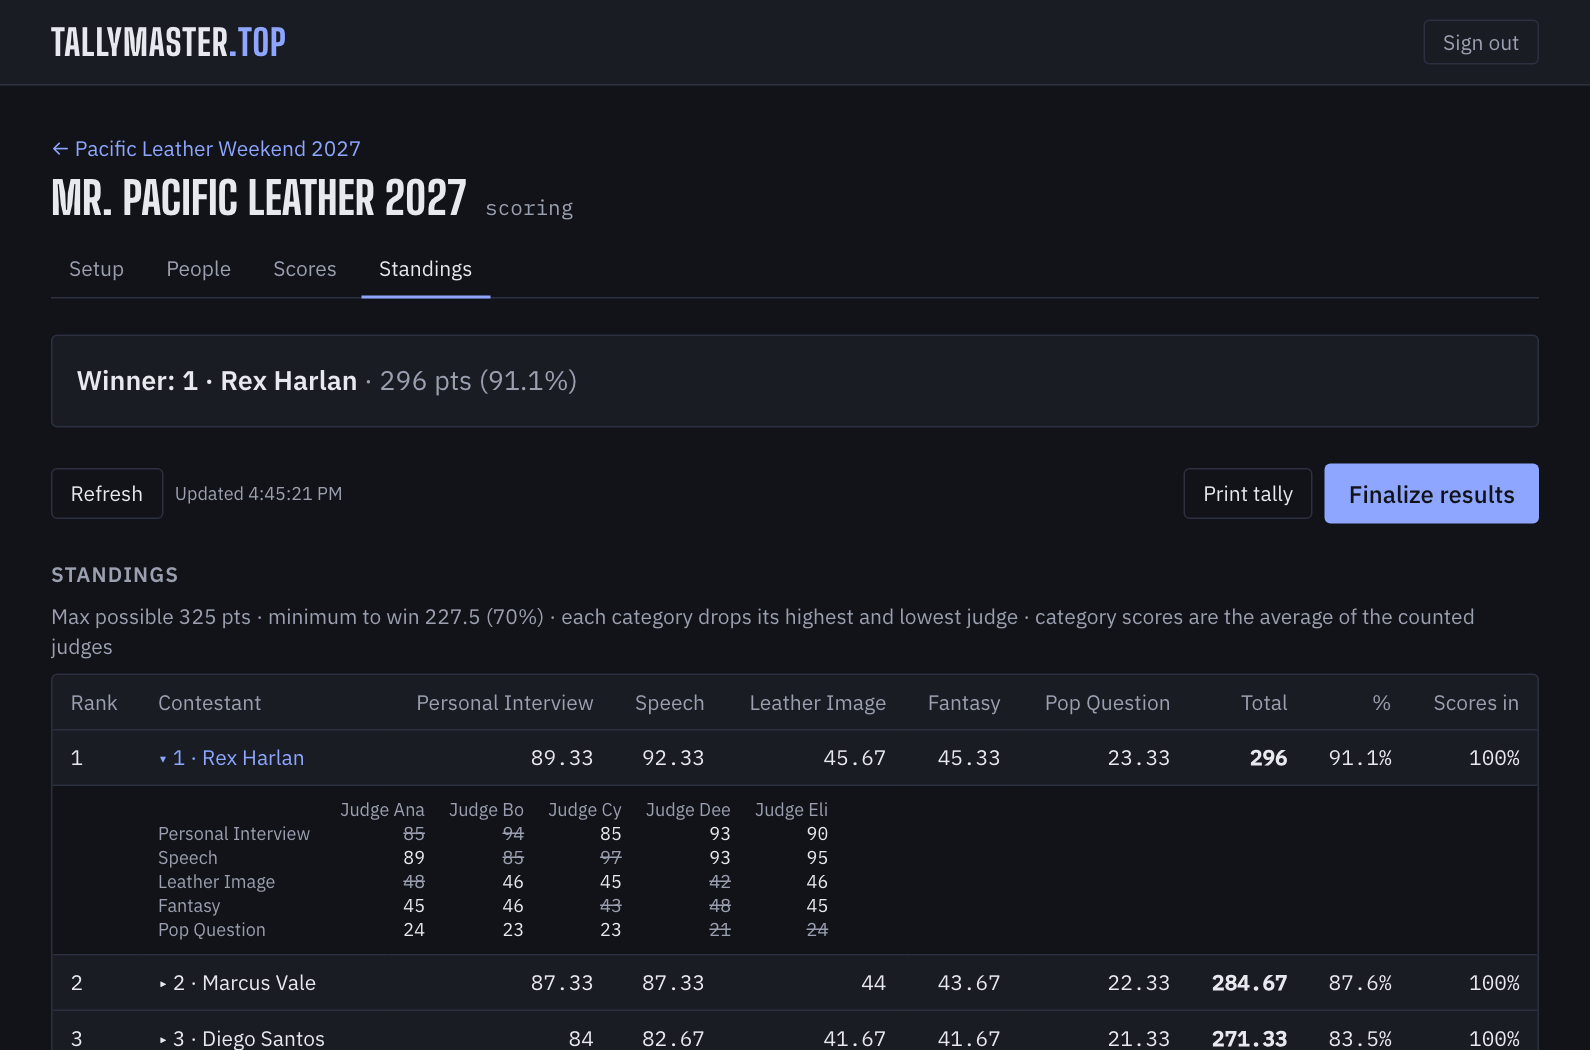
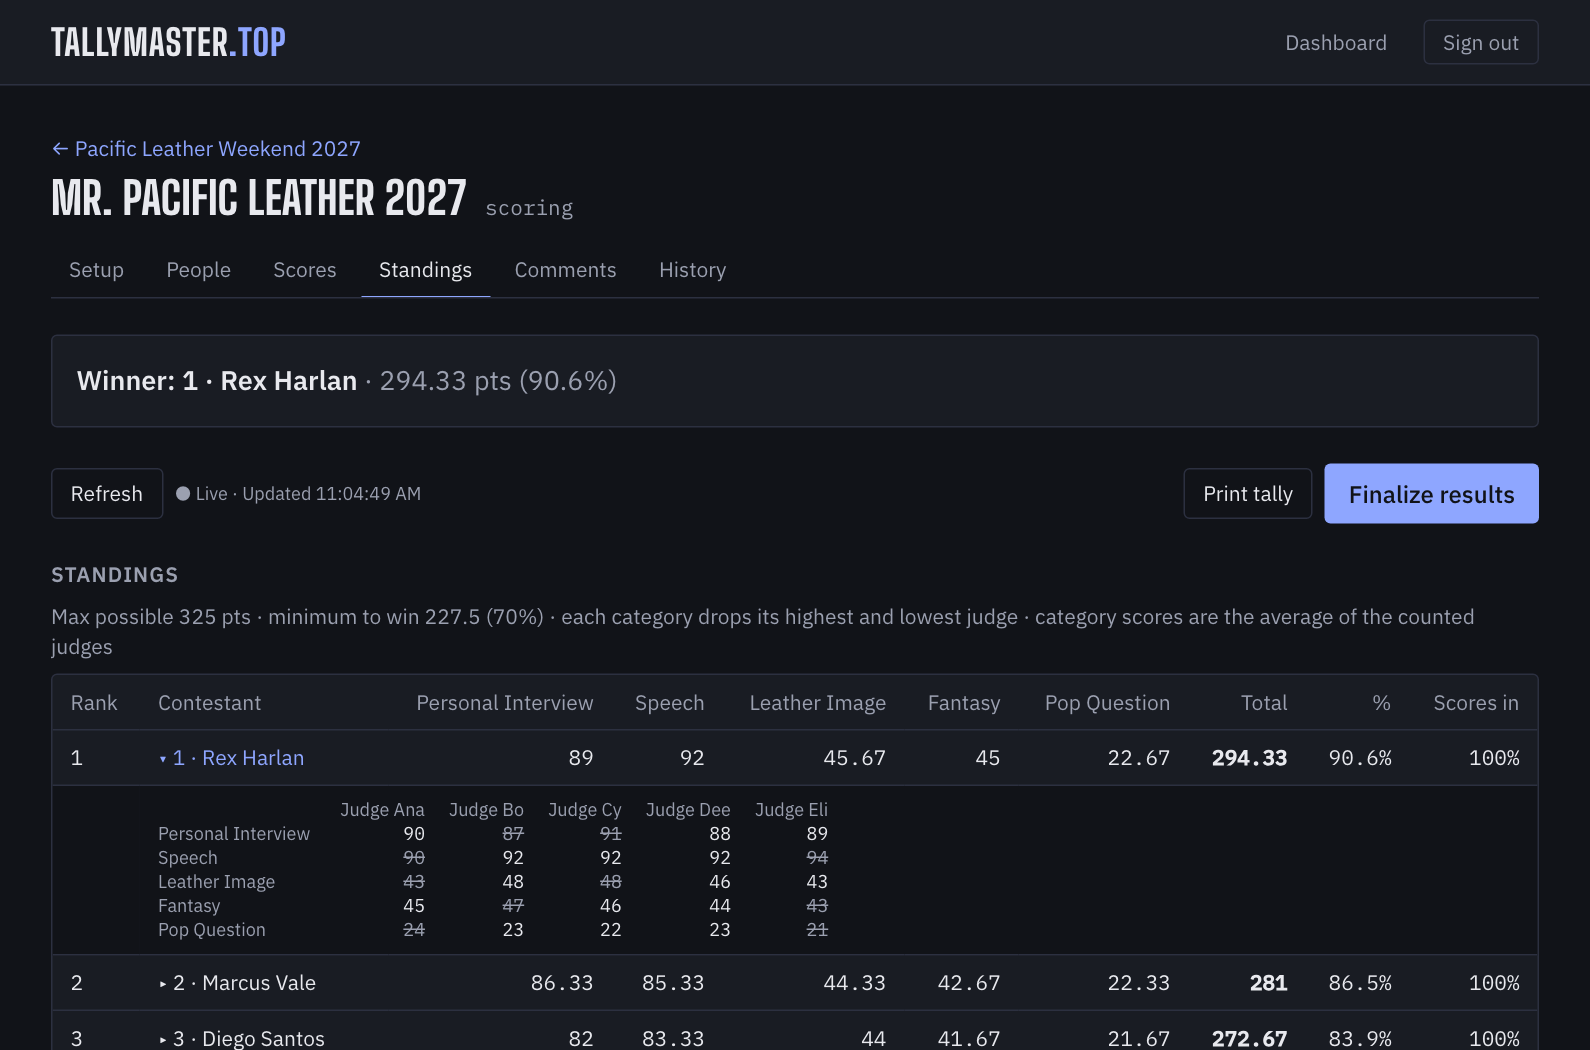
Landing: How it works centres on judges scoring themselves; pricing FAQ is its own section
- Steps: set up and invite judges, judges score on their phones, crown.
  Screenshots: a judge's own sheet on a phone and the public results page
  (fictional contest), replacing the tally grid.
- Judges scoring on their phones leads the feature list.
- Pricing: the FAQs move to a separate 'Questions' section with cards.

diff --git a/src/pages/Landing.tsx b/src/pages/Landing.tsx
@@ -8,6 +8,10 @@ const ctaQuiet = 'inline-block rounded border border-rule px-5 py-2.5 font-mediu
 
 const features: { title: string; body: string }[] = [
   {
+    title: 'Judges score on their phones',
+    body: 'Judges sign in on their phone, score their own sheets and submit them. No paper to collect, no numbers to retype, and they only ever see their own scores.',
+  },
+  {
     title: 'Instant tallying',
     body: 'Standings update with every score. When the last judge’s score is in, so is the result: highs and lows dropped, deductions applied, tiebreaks run. No hour-long wait while tally checks and re-checks.',
   },
@@ -24,19 +28,15 @@ const features: { title: string; body: string }[] = [
     body: 'Every entry and every change is recorded with who made it and when. Recused judges are handled by the rules, not by hand, and a finalized result is locked.',
   },
   {
-    title: 'Judges score on the website',
-    body: 'Judges sign in on their phone, score their own sheets and submit them. No paper to collect, no numbers to retype, and they only ever see their own scores.',
-  },
-  {
     title: 'Transparent results',
     body: 'Publish the final results to a public page for contestants and the community, with each category’s scores, and share judges’ reviewed comments with each contestant.',
   },
 ]
 
 const steps = [
-  ['Set up', 'Start from an official template (IML, IMBB, IMsL, IMsBB, San Diego, SF Bootblack) or build your own categories, scoring and tiebreaks. Add contestants and judges.'],
-  ['Score', 'Enter scores by judge sheet, by category or by contestant, on a laptop or phone. Every score saves as it’s typed and survives a patchy hotel Wi-Fi.'],
-  ['Crown', 'Watch the standings and the projected winner build. When scoring is done, finalize, print the tally sheet and announce with confidence.'],
+  ['Set up', 'Start from an official template (IML, IMBB, IMsL, IMsBB, San Diego, SF Bootblack) or build your own categories, scoring and tiebreaks. Add your contestants and invite each judge by email.'],
+  ['Judges score', 'Judges sign in on their own phones, score each contestant category by category, add comments and submit. A submitted sheet locks. Scores save as they’re typed and survive patchy hotel Wi-Fi, and the tally team can still enter paper sheets.'],
+  ['Crown', 'Standings update live as sheets come in. When the last one lands, finalize, print the tally, publish the results page and share each contestant’s reviewed comments.'],
 ]
 
 function Shot({ name, alt, className = '' }: { name: string; alt: string; className?: string }) {
@@ -98,14 +98,14 @@ export function Landing() {
               </li>
             ))}
           </ol>
-          <div className="grid items-start gap-8 md:grid-cols-[3fr_1fr]">
-            <figure className="grid gap-2">
-              <Shot name="score-entry" alt="Score entry grid for a fictional contest: contestants down the side, judges across the top, with every score saved" />
-              <figcaption className="text-sm text-muted">Enter a whole category at once: contestants down the side, judges across the top.</figcaption>
-            </figure>
+          <div className="grid items-start gap-8 md:grid-cols-[1fr_3fr]">
             <figure className="mx-auto grid max-w-64 gap-2">
-              <Shot name="phone" alt="One judge's scoresheet on a phone" className="rounded-2xl" />
-              <figcaption className="text-sm text-muted">Every view works on a phone.</figcaption>
+              <Shot name="judge-phone" alt="A judge's own scoresheet on a phone, with submitted categories locked" className="rounded-2xl" />
+              <figcaption className="text-sm text-muted">Each judge scores on their own phone and sees only their own scores.</figcaption>
+            </figure>
+            <figure className="grid gap-2">
+              <Shot name="results" alt="The public results page for a fictional contest: the winner and the full standings by category" />
+              <figcaption className="text-sm text-muted">Publish the results to a public page anyone can open, no sign-in needed.</figcaption>
             </figure>
           </div>
         </section>

diff --git a/src/pages/Pricing.tsx b/src/pages/Pricing.tsx
@@ -91,14 +91,20 @@ export function Pricing() {
               </li>
             ))}
           </ol>
-          <dl className="grid gap-5 md:grid-cols-2">
-            {faq.map(([q, a]) => (
-              <div key={q} className="grid content-start gap-1">
-                <dt className="font-semibold">{q}</dt>
-                <dd className="text-muted">{a}</dd>
-              </div>
-            ))}
-          </dl>
+        </section>
+
+        <section className="border-t border-rule bg-surface">
+          <div className="mx-auto grid max-w-6xl gap-8 px-4 py-14">
+            <h2 className="font-display text-3xl font-extrabold uppercase sm:text-4xl">Questions</h2>
+            <dl className="grid gap-4 md:grid-cols-2">
+              {faq.map(([q, a]) => (
+                <div key={q} className={`${card} grid content-start gap-2 bg-bg p-5`}>
+                  <dt className="text-lg font-semibold">{q}</dt>
+                  <dd className="text-muted">{a}</dd>
+                </div>
+              ))}
+            </dl>
+          </div>
         </section>
       </main>
       <PublicFooter />
